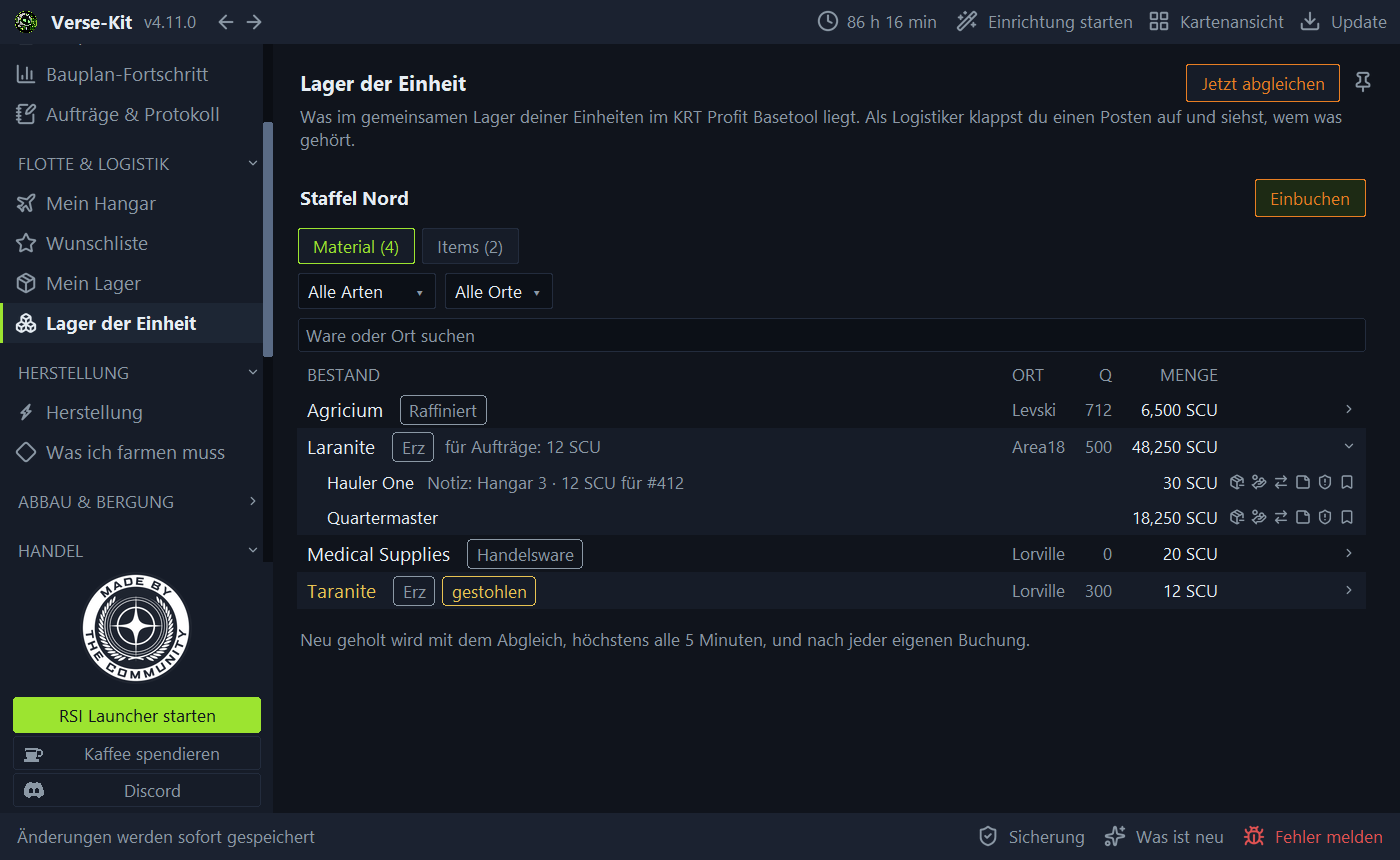
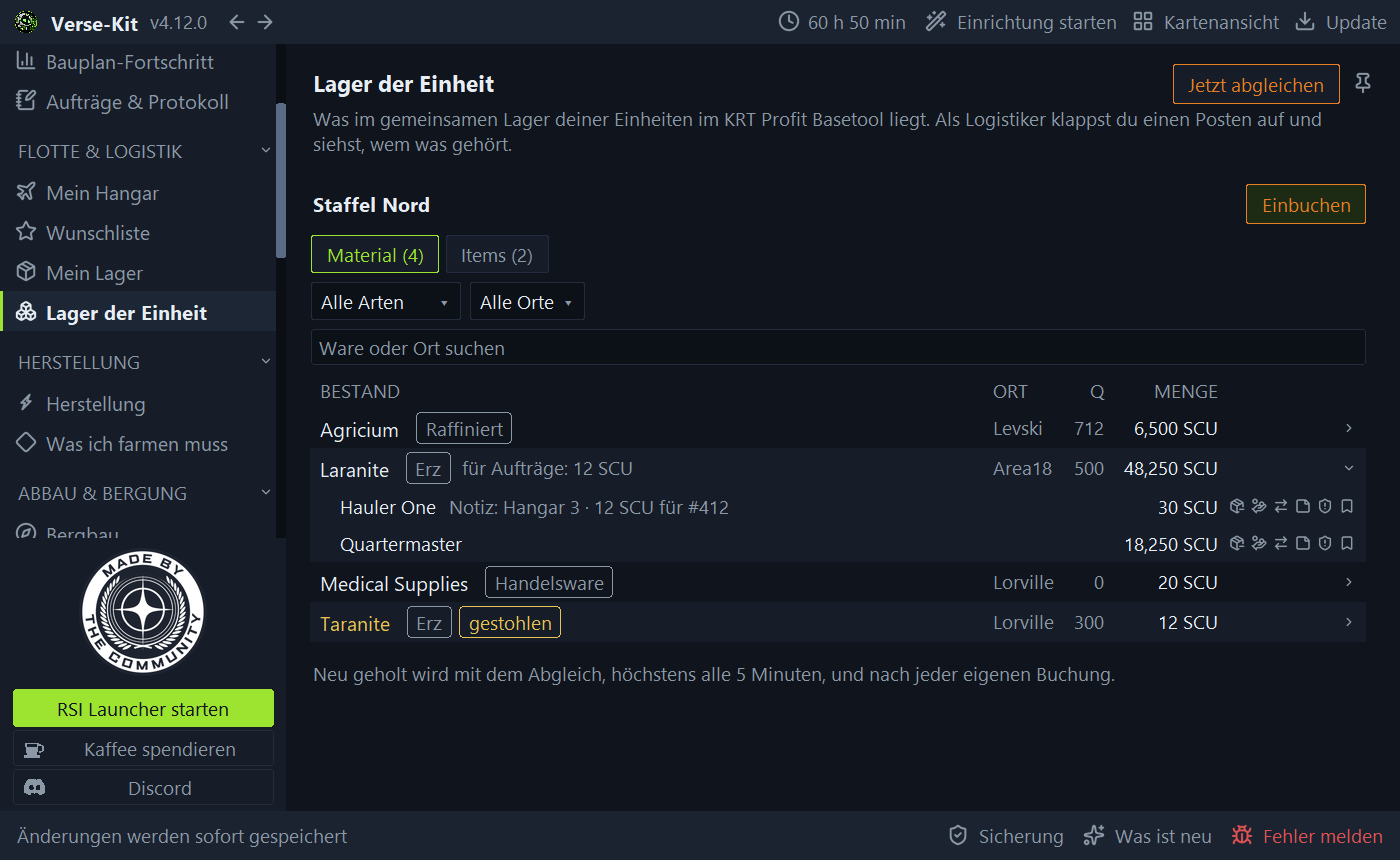
v4.12.0 — flotteres Lager und Overlay, Teilen aus dem Bearbeiten-Feld
Version, CHANGELOG (de/en, Vorspann), Bilder Mein Lager und Lager der
Einheit de/en. Nach der Release-Prüfung: Changelog-Wortlaut genauer,
eigener Danke-Absatz zum Tempo, ein Kommentar ohne Vorgeschichte.

diff --git a/scbp/language.py b/scbp/language.py
@@ -2858,11 +2858,7 @@ TEXTS = {
                               'Ortskatalogs werden nicht mehr geleert, und '
                               'das Lager der Einheit ruft die '
                               'Mitgliederliste nur noch dort ab, wo du '
-                              'Logistiker bist. Dazu eine Messanalyse zum '
-                              'Tempo: Das Overlay ruckelt beim Verschieben '
-                              'nicht mehr, wenn im Hintergrund gerechnet '
-                              'wird, und Seitenwechsel lesen die '
-                              'Einstellungen nicht mehr jedes Mal neu.',
+                              'Logistiker bist.',
                               '**Review of the Basetool sync** — wait times after '
                               'errors, a full stop after a block, only your own '
                               'account\'s blueprints and more safely stored '
@@ -2873,12 +2869,15 @@ TEXTS = {
                               'resent on every sync, lots at a place '
                               'outside the location catalog are no longer '
                               'emptied, and unit storage only asks for the '
-                              'member list where you are a logistician. '
-                              'Plus a measured analysis of speed: the '
-                              'overlay no longer stutters while you drag it '
-                              'and work runs in the background, and page '
-                              'switches no longer reread the settings every '
-                              'time.'),
+                              'member list where you are a logistician.'),
+    's_dk_greluc_bugs2':     ('**Messanalyse zum Tempo** — das Overlay ruckelt '
+                              'beim Verschieben nicht mehr, wenn im Hintergrund '
+                              'gerechnet wird, und Seitenwechsel lesen die '
+                              'Einstellungen nicht mehr jedes Mal neu.',
+                              '**A measured analysis of speed** — the overlay '
+                              'no longer stutters while you drag it and work '
+                              'runs in the background, and page switches no '
+                              'longer reread the settings every time.'),
     's_dk_parsul_idee':      ('**Bilder im Fehlerbericht** — ein Bildschirmfoto geht '
                               'jetzt direkt mit dem Bericht hinaus, statt es '
                               'getrennt nachzureichen.',

diff --git a/scbp/pages.py b/scbp/pages.py
@@ -7555,7 +7555,8 @@ def _thanks(fenster, rahmen):
             ('Rhino', '', t('s_dk_rhino_idee'), ''),
             ('F_i_r_e', 'KRT', '', t('s_dk_fire_bugs')),
             ('greluc', 'KRT', t('s_dk_greluc_idee') + '\n\n'
-             + t('s_dk_greluc_idee2'), t('s_dk_greluc_bugs')),
+             + t('s_dk_greluc_idee2'), t('s_dk_greluc_bugs') + '\n\n'
+             + t('s_dk_greluc_bugs2')),
             ('Parsul', 'KRT', t('s_dk_parsul_idee'), t('s_dk_parsul_bugs') + '\n\n'
              + t('s_dk_parsul_bugs2') + '\n\n' + t('s_dk_parsul_bugs3')
              + '\n\n' + t('s_dk_parsul_bugs4') + '\n\n'

diff --git a/scbp/exchange_orgstock.py b/scbp/exchange_orgstock.py
@@ -54,8 +54,8 @@ PAGE_LIMIT = 500
 SCU = 'SCU'
 PIECE = 'PIECE'
 
-# Gespeicherte Werte der früheren vier Sichten; `orgstock_page.OLD_VIEWS`
-# bildet sie auf die heutigen zwei Reiter ab.
+# Gespeicherte Sicht-Werte, die `orgstock_page.OLD_VIEWS` auf die zwei
+# Reiter abbildet.
 ITEMS = 'items'
 RAW = 'rohstoffe'
 TRADE = 'handelsware'

diff --git a/sc_bp_watcher.py b/sc_bp_watcher.py
@@ -60,7 +60,7 @@ try:
 except ImportError:
     winsound = None
 
-__version__ = '4.11.2'
+__version__ = '4.12.0'
 
 # Zeitpunkt des Programmstarts — misst, wie lange das Programm schon läuft
 # (siehe `Overlay.AUTO_UPDATE_VISIBLE_S`).

diff --git a/CHANGELOG.md b/CHANGELOG.md
@@ -6,7 +6,14 @@ Alle wichtigen Änderungen an diesem Projekt werden hier dokumentiert.
 
 Das Projekt nutzt SemVer: `MAJOR.MINOR.PATCH`.
 
-## Unveröffentlicht
+## v4.12.0 - 2026-10-19
+
+> Verse-Kit reagiert spürbar flotter: Mein Lager und Lager der Einheit
+> bauen sich nicht mehr bei jedem Klick komplett neu auf, und das Overlay
+> ruckelt beim Verschieben nicht mehr, auch wenn im Hintergrund gerechnet
+> wird. Auch aus dem Bearbeiten-Feld in Mein Lager lässt sich ein Posten
+> jetzt ins Lager der Einheit geben, und Edelsteine stehen nicht mehr als
+> „Pflanze" da.
 
 ### Verbessert
 
@@ -22,8 +29,9 @@ Das Projekt nutzt SemVer: `MAJOR.MINOR.PATCH`.
   „Ins Lager der Einheit geben" bzw. „Zurücknehmen", wo das am Posten geht.
   Unter der Liste steht jetzt „Verkaufswert höchstens" mit aUEC.
 - **Lager der Einheit baut sich nicht mehr bei jedem Klick neu auf** —
-  Posten auf- und zuklappen, Buchungsfelder öffnen, Abbrechen, Einbuchen
-  und Hinweise beim Ausfüllen ändern nur noch die betroffene Stelle; die
+  Posten auf- und zuklappen, Buchungsfelder und das Einbuchen-Feld öffnen,
+  Abbrechen und Hinweise beim Ausfüllen ändern nur noch die betroffene
+  Stelle; die
   Liste und das schon Eingetippte bleiben stehen.
 
 ### Behoben

diff --git a/CHANGELOG.en.md b/CHANGELOG.en.md
@@ -6,7 +6,13 @@ All notable changes to this project are documented here.
 
 The project follows SemVer: `MAJOR.MINOR.PATCH`.
 
-## Unreleased
+## v4.12.0 - 2026-10-19
+
+> Verse-Kit feels noticeably snappier: My Inventory and Unit storage no
+> longer rebuild completely on every click, and the overlay no longer
+> stutters while you drag it, even with work running in the background.
+> The edit panel in My Inventory can now also put a lot into unit
+> storage, and gems no longer show up as "Plant".
 
 ### Improved
 
@@ -21,8 +27,8 @@ The project follows SemVer: `MAJOR.MINOR.PATCH`.
   edit field also gets a "Put into unit storage" or "Take back" button where
   the lot allows it. Below the list it now says "Sale value up to" in aUEC.
 - **Unit storage no longer rebuilds on every click** — opening and closing
-  lots, opening booking fields, cancelling, booking in and hints while
-  filling in now only change the spot concerned; the list and what you have
+  lots, opening booking fields and the book-in field, cancelling and hints
+  while filling in now only change the spot concerned; the list and what you have
   typed stay put.
 
 ### Fixed
